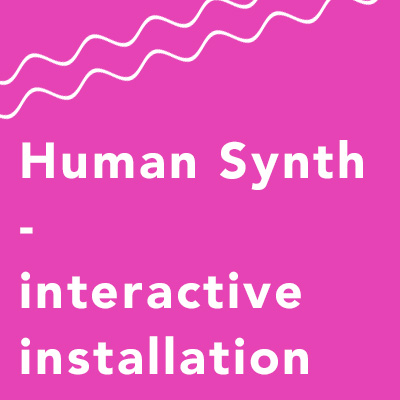
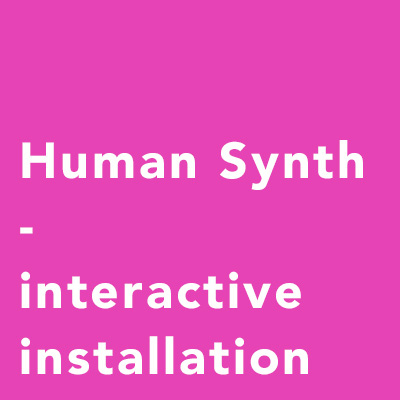
minor updates
foooter, logo, humansynth pic

diff --git a/works/human-synth.html b/works/human-synth.html
@@ -37,7 +37,10 @@
     <div class="opened row">
       <div class="medium-8 medium-offset-1 columns">
         <h1>Human Synth</h1>
-        <p>This was an audio visual interactive installation I did while living and studying in Portugal. It tracks the movement of people and plays sounds based on that. Installation was placed over the main enterance of the design school of Caldas da Rainha. This was filmed on Monday morning, which explains the lack of student traffic but it still was enough for me to gather results. In the future, visal content could be added to make this interaction more dynamic. I plan to use this program to collect some useful information about the amount of traffic / direction / interactivity.</p>
+        <br>
+        <br>
+        <br>
+        <p>This was an audio visual interactive installation I did while living and studying in Portugal. It is tracking the movement of the people and playing sounds based on that. Installation was placed over the main enterance of the design school of Caldas da Rainha. This was filmed on Monday morning, which explains the lack of student traffic but it still was enough for me to gather results. In the future I plan to use this program to collect some useful information about the amount of traffic / direction / interactivity.</p>
         <p>There was no visual hints about the installation (except the black tape I forgot to remove), so users will have to explore how the experiment is working and how exactly are they interacting with it.</p>
         <p> The purpose of this was to bring something unexpected in everyday life of students and see how they would react.</p>
         <img src="../images/project-human-4.jpg">

diff --git a/index.html b/index.html
@@ -26,8 +26,8 @@ Hit me up at toms.rits@gmail.com for some knock-knock jokes!
     <!-- top nav beg -->
     <div class="row">
       <nav class="top-bar">
-        <a href="index.html" id="" class="left hide-for-small"><img src="images/rits-logo.jpg" width="50" alt=""></a>
-        <!-- <a href="index.html" class="left show-for-small"><img src="images/seja.png" width="30" alt=""></a> -->
+        <!-- <a href="index.html" id="" class="left hide-for-small"><img src="images/rits-logo.jpg" width="50" alt=""></a> -->
+        <a href="index.html" class="left show-for-small"><img src="images/seja.png" width="30" alt=""></a>
         <div class="right menu">
           <a href="index.html">Works</a>
           <a href="contact.html">Who</a>
@@ -189,7 +189,7 @@ Hit me up at toms.rits@gmail.com for some knock-knock jokes!
   </div>
   <footer>
     <div class="content">
-      <p class="text-center"><i class="fa fa-flask"></i> Handcrafted with hands for computers / © 2014 / <a href="#">Toms Rīts</a> </p>
+      <p class="text-center"><i class="fa fa-flask"></i> Handcrafted with hands for computers / © 201... Forever / <a href="#">Toms Rīts</a> </p>
     </div>
   </footer>
  <!-- container ends here -->

diff --git a/contact.html b/contact.html
@@ -139,11 +139,11 @@
       <img src="images/contacts-mac.jpg" alt="mac" class="medium-4 columns">
     </div>
 
-    <footer class="row small-12 columns">
-      <div class="content">
-        <p class="text-center"><i class="fa fa-flask"></i> Handcrafted with hands for computers / © 014 / <a href="#">Toms Rīts</a> </p>
-      </div>
-    </footer>
+  <footer>
+    <div class="content">
+      <p class="text-center"><i class="fa fa-flask"></i> Handcrafted with hands for computers / © 201... Forever / <a href="#">Toms Rīts</a> </p>
+    </div>
+  </footer>
 
     <div id="figure-field" data-0="top:0px;" data-100000="top:50000px;" data-smooth-scrolling="on">
       <div class="figure">
